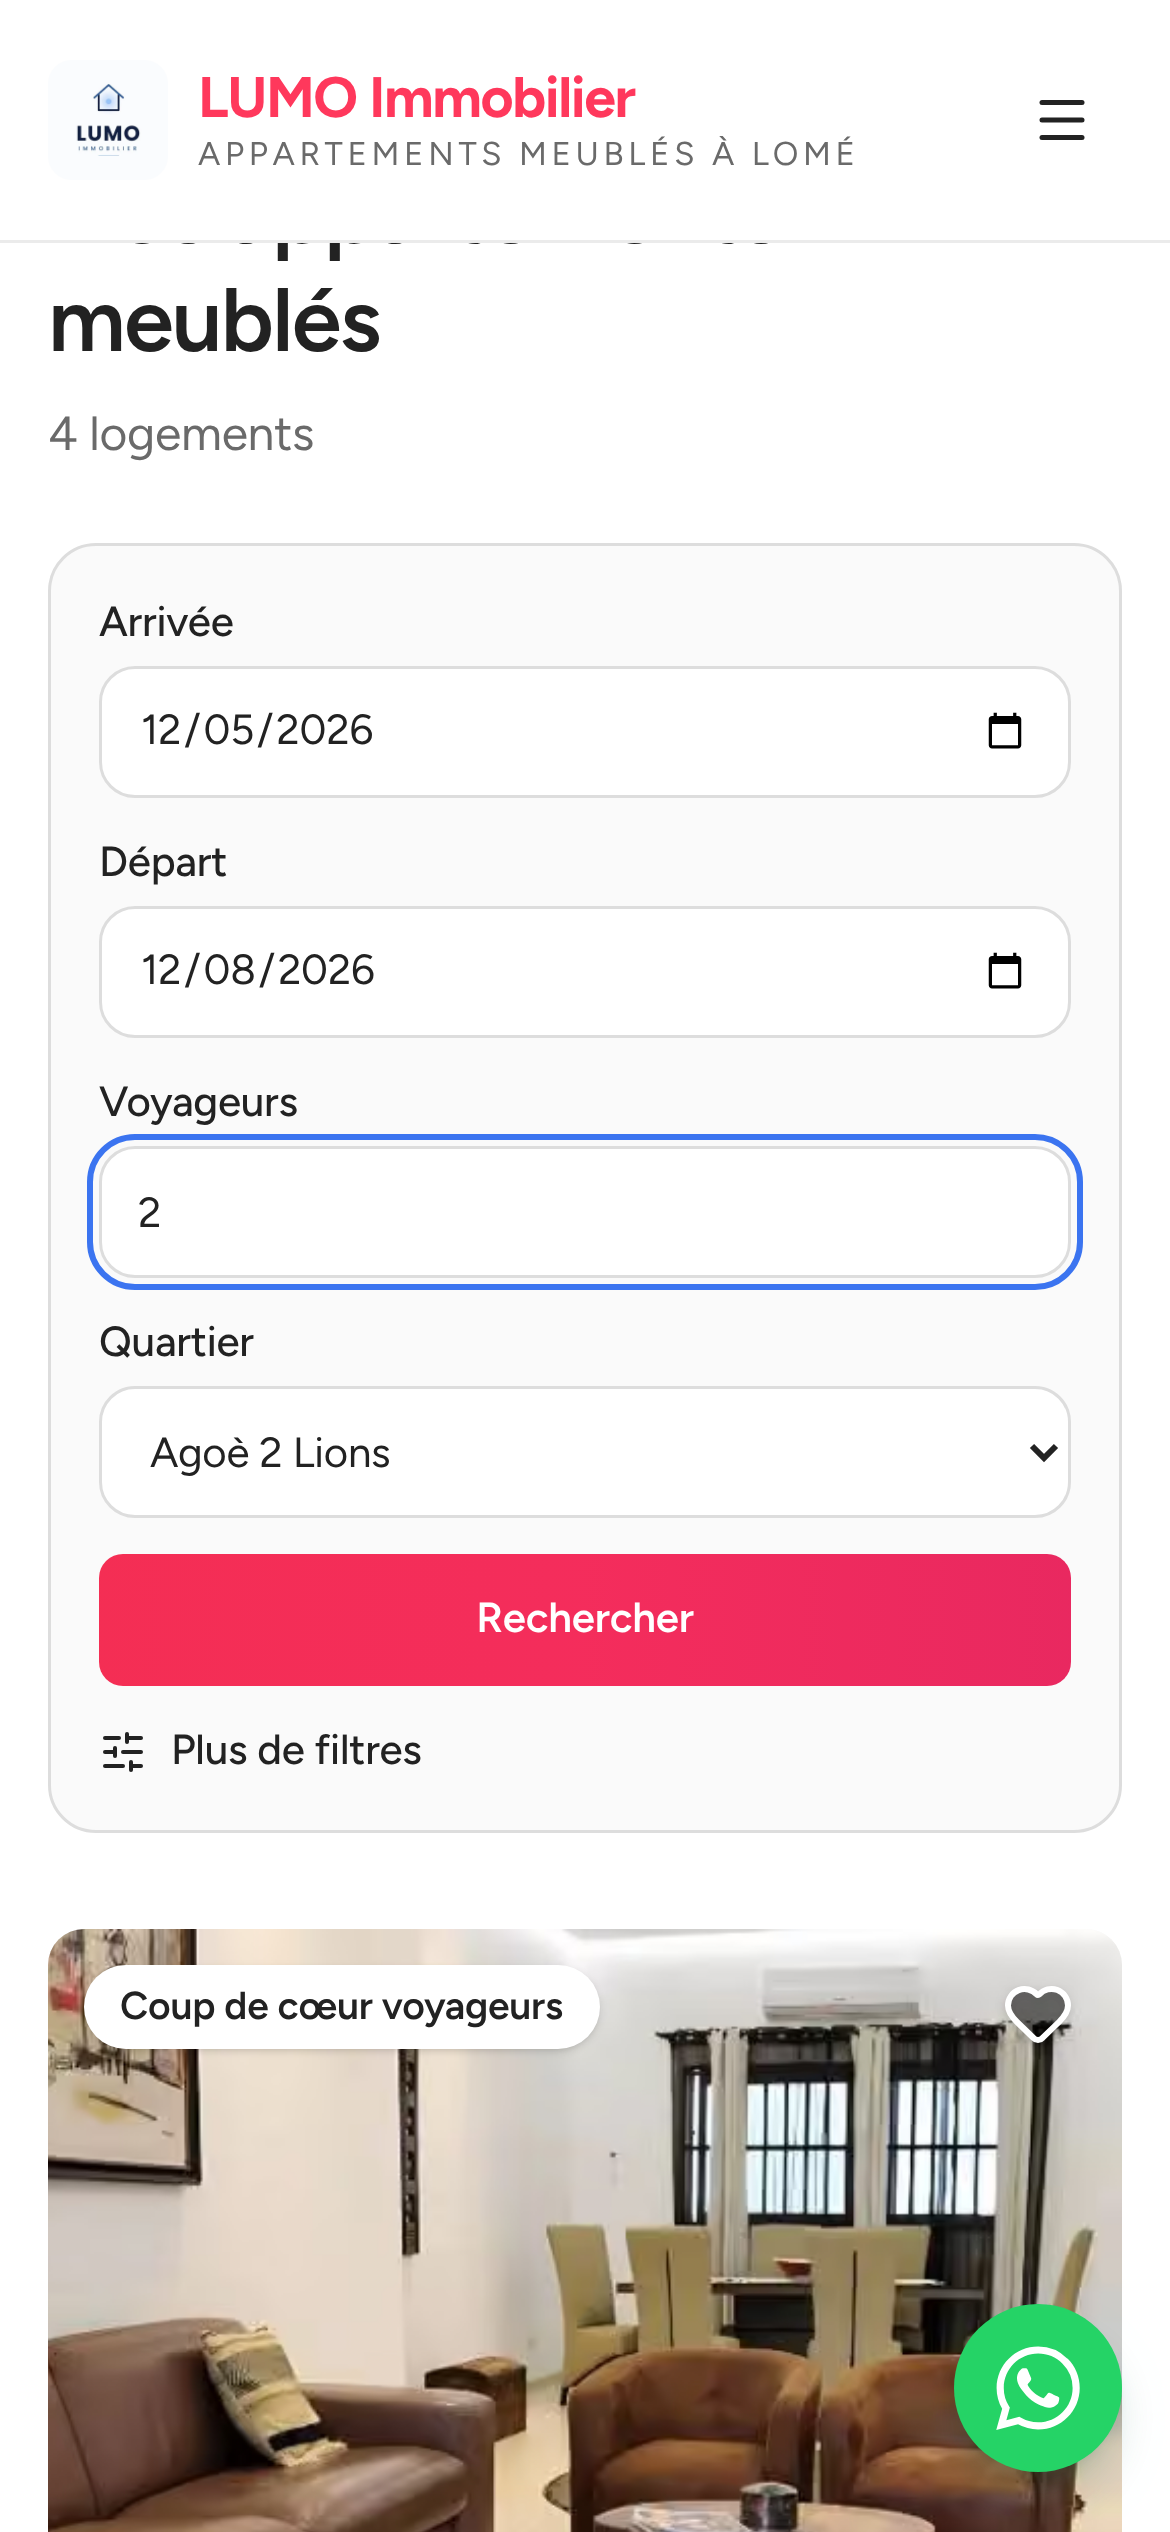
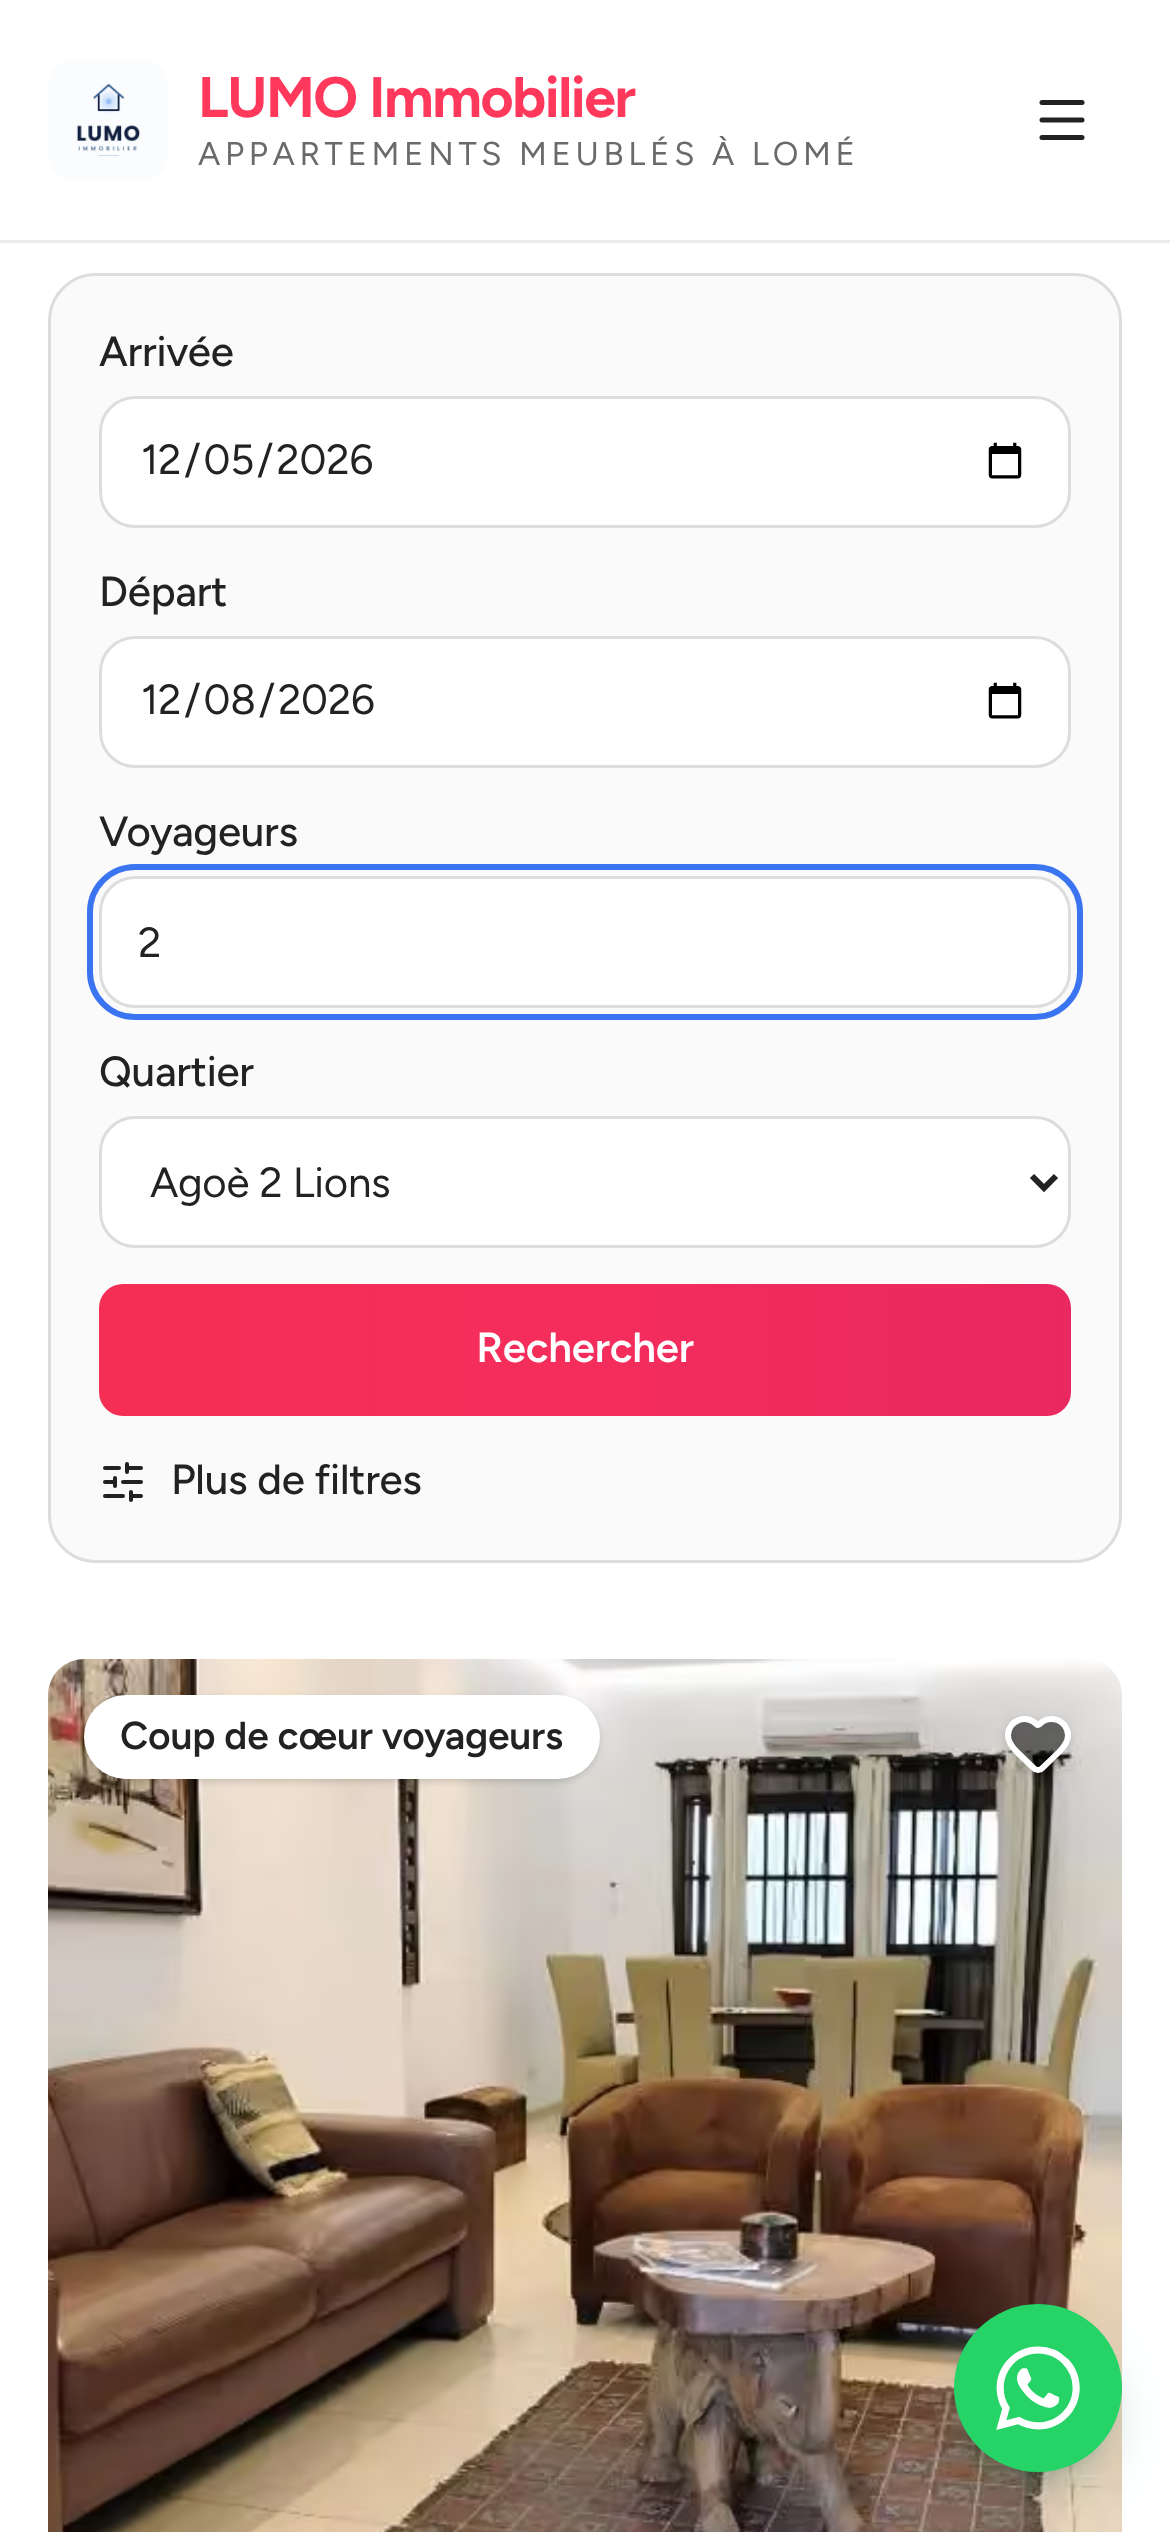
Vidéos 5 et 6 : ne plus annoncer de nombre de logements ni de quartiers
Claude-Session: https://claude.ai/code/session_017TaYsH3maYb33AsDFET8TE

diff --git a/publicites/ui/positions.js b/publicites/ui/positions.js
@@ -1,104 +1,1 @@
-window.TUTO_POS = {
- "acc_decouvrir": {
-  "x": 0.041025641025641026,
-  "y": 0.4200236966824645,
-  "w": 0.6950320512820513,
-  "h": 0.061611374407582936
- },
- "f_dates": {
-  "x": 0.08461538461538462,
-  "y": 0.26303317535545023,
-  "w": 0.8307692307692308,
-  "h": 0.052132701421800945
- },
- "f_quartier": {
-  "x": 0.08461538461538462,
-  "y": 0.54739336492891,
-  "w": 0.8307692307692308,
-  "h": 0.052132701421800945
- },
- "f_btn": {
-  "x": 0.08461538461538462,
-  "y": 0.6137440758293838,
-  "w": 0.8307692307692308,
-  "h": 0.052132701421800945
- },
- "r_carte": {
-  "x": 0.041025641025641026,
-  "y": 0.48104265402843605,
-  "w": 0.9179487179487179,
-  "h": 0.5575755331753555
- },
- "r_coeur": {
-  "x": 0.8461538461538461,
-  "y": 0.495260663507109,
-  "w": 0.08205128205128205,
-  "h": 0.037914691943127965
- },
- "fi_visite": {
-  "x": 0.041025641025641026,
-  "y": 0.39988151658767773,
-  "w": 0.30504807692307695,
-  "h": 0.03317535545023697
- },
- "fi_photo": {
-  "x": 0,
-  "y": 0,
-  "w": 1,
-  "h": 0.48518957345971564
- },
- "fi_barre": {
-  "x": 0,
-  "y": 0.8486374407582938,
-  "w": 1,
-  "h": 0.15136255924170616
- },
- "eq_btn": {
-  "x": 0.06153846153846154,
-  "y": 0.5622037914691943,
-  "w": 0.8769230769230769,
-  "h": 0.061611374407582936
- },
- "as_regles": {
-  "x": 0.06153846153846154,
-  "y": 0.1712085308056872,
-  "w": 0.8769230769230769,
-  "h": 0.12796208530805686
- },
- "d_cal": {
-  "x": 0.12564102564102564,
-  "y": 0.2103080568720379,
-  "w": 0.7487179487179487,
-  "h": 0.2896919431279621
- },
- "t_total": {
-  "x": 0.12564102564102564,
-  "y": 0.42509626777251186,
-  "w": 0.7487179487179487,
-  "h": 0.10781990521327015
- },
- "t_wa": {
-  "x": 0.12564102564102564,
-  "y": 0.5518735189573459,
-  "w": 0.7487179487179487,
-  "h": 0.05687203791469194
- },
- "t_demande": {
-  "x": 0.12564102564102564,
-  "y": 0.6277029028436019,
-  "w": 0.7487179487179487,
-  "h": 0.054502369668246446
- },
- "t_barre": {
-  "x": 0,
-  "y": 0.8486374407582938,
-  "w": 1,
-  "h": 0.15136255924170616
- },
- "fo_btn": {
-  "x": 0.16923076923076924,
-  "y": 0.47367446682464454,
-  "w": 0.6615384615384615,
-  "h": 0.052132701421800945
- }
-};
+window.TUTO_POS = {"acc_decouvrir":{"x":0.041025641025641026,"y":0.4200236966824645,"w":0.6950320512820513,"h":0.061611374407582936},"f_dates":{"x":0.08461538461538462,"y":0.15639810426540285,"w":0.8307692307692308,"h":0.052132701421800945},"f_quartier":{"x":0.08461538461538462,"y":0.44075829383886256,"w":0.8307692307692308,"h":0.052132701421800945},"f_btn":{"x":0.08461538461538462,"y":0.5071090047393365,"w":0.8307692307692308,"h":0.052132701421800945},"r_carte":{"x":0.041025641025641026,"y":0.48104265402843605,"w":0.9179487179487179,"h":0.5575755331753555},"r_coeur":{"x":0.8461538461538461,"y":0.495260663507109,"w":0.08205128205128205,"h":0.037914691943127965},"fi_visite":{"x":0.041025641025641026,"y":0.39988151658767773,"w":0.30504807692307695,"h":0.03317535545023697},"fi_photo":{"x":0,"y":0,"w":1,"h":0.48518957345971564},"fi_barre":{"x":0,"y":0.8486374407582938,"w":1,"h":0.15136255924170616},"eq_btn":{"x":0.06153846153846154,"y":0.5622037914691943,"w":0.8769230769230769,"h":0.061611374407582936},"as_regles":{"x":0.06153846153846154,"y":0.1712085308056872,"w":0.8769230769230769,"h":0.12796208530805686},"d_cal":{"x":0.12564102564102564,"y":0.2103080568720379,"w":0.7487179487179487,"h":0.2896919431279621},"t_total":{"x":0.12564102564102564,"y":0.42509626777251186,"w":0.7487179487179487,"h":0.10781990521327015},"t_wa":{"x":0.12564102564102564,"y":0.5518735189573459,"w":0.7487179487179487,"h":0.05687203791469194},"t_demande":{"x":0.12564102564102564,"y":0.6277029028436019,"w":0.7487179487179487,"h":0.054502369668246446},"t_barre":{"x":0,"y":0.8486374407582938,"w":1,"h":0.15136255924170616},"fo_btn":{"x":0.16923076923076924,"y":0.47367446682464454,"w":0.6615384615384615,"h":0.052132701421800945}};

diff --git a/publicites/concepts/c5.js b/publicites/concepts/c5.js
@@ -46,7 +46,7 @@
     ],
     taps: [{ at: 8.3, k: "eq_btn" }, { at: 26.8, x: 0.5, y: 0.5 }, { at: 34.4, k: "t_wa" }],
     marks: [
-      { k: "f_quartier", a: 14.6, b: 16.8, label: "3 quartiers" },
+      { k: "f_quartier", a: 14.6, b: 16.8, label: "Filtrez par quartier" },
       { k: { x: 0.04, y: 0.135, w: 0.92, h: 0.41 }, a: 19.9, b: 22.8, label: "Plus vous restez, moins vous payez" },
       { k: "t_total", a: 32.0, b: 33.5, label: "Prix total" },
       { k: "t_wa", a: 33.5, b: 35.2, label: "Réserver sur WhatsApp" },
@@ -60,7 +60,7 @@
   T.steps([
     { a: 4.6, b: 10.7, kick: K, n: "01", lab: "Des logements meublés et équipés", sub: "Prêts à vivre dès votre arrivée.",
       extras: [{ html: "Wi-Fi", at: 3.0, dy: 0 }, { html: "Climatisation", at: 3.5, dy: cs }, { html: "Cuisine équipée", at: 4.0, dy: cs * 2 }] },
-    { a: 10.7, b: 17.1, kick: K, n: "02", lab: "Trois quartiers de Lomé", sub: "Choisissez celui qui vous convient.", extraTop: nine ? 620 : 450,
+    { a: 10.7, b: 17.1, kick: K, n: "02", lab: "Plusieurs quartiers de Lomé", sub: "Et de nouveaux logements régulièrement.", extraTop: nine ? 620 : 450,
       extras: [
         { cls: "pcard", html: card("a-salon-baie.jpg", "Agoè 2 Lions", "<b>50 000 F</b> / nuit"), at: 1.0, dy: 0, pop: true },
         { cls: "pcard", html: card("b-salon1.jpg", "Hedzranawoé", "dès <b>40 000 F</b> / nuit"), at: 1.4, dy: pc, pop: true, hot: [3.7, 6.0] },
@@ -79,7 +79,7 @@
 
   // ---------- Appel à l'action ----------
   T.cta(35.7, R.dur, {
-    recap: ["Meublé et équipé", "3 quartiers", "Nuit · semaine · mois", "Photos réelles", "WhatsApp"],
+    recap: ["Meublé et équipé", "Plusieurs quartiers", "Nuit · semaine · mois", "Photos réelles", "WhatsApp"],
     title: "Votre appartement meublé à Lomé.",
     sub: "Découvrez nos logements et réservez en quelques clics.",
     btn: "DÉCOUVRIR LES APPARTEMENTS",

diff --git a/publicites/concepts/c6.js b/publicites/concepts/c6.js
@@ -2,7 +2,7 @@
 (() => {
   const { E, p, el, split, reveal, scene, clamp } = R;
   R.dur = 45.4;
-  const T = TUTO(), { nine, Y } = T;
+  const T = TUTO(), { nine, Y } = T, POS = window.TUTO_POS;
   const css = document.createElement("style");
   css.textContent = `
     .h6k { position:absolute; left:50%; transform:translateX(-50%); background:#FF385C; color:#fff; border-radius:999px; padding:${nine ? "16px 30px" : "13px 24px"};
@@ -49,8 +49,8 @@
     ],
     marks: [
       { k: "acc_decouvrir", a: 4.6, b: 7.3, label: "Découvrir les appartements" },
-      { k: { x: 0.0846, y: 0.263, w: 0.8308, h: 0.144 }, a: 8.2, b: 9.3, label: "Dates" },
-      { k: { x: 0.0846, y: 0.45, w: 0.8308, h: 0.052 }, a: 9.3, b: 10.1, label: "Voyageurs" },
+      { k: { ...POS.f_dates, h: POS.f_dates.h + 0.094 }, a: 8.2, b: 9.3, label: "Dates" },
+      { k: { ...POS.f_quartier, y: POS.f_quartier.y - 0.097 }, a: 9.3, b: 10.1, label: "Voyageurs" },
       { k: "f_quartier", a: 10.1, b: 11.1, label: "Quartier" },
       { k: "f_btn", a: 11.1, b: 12.6, label: "Rechercher" },
       { k: "r_carte", a: 13.4, b: 15.2, label: "Photos, prix, équipements" },

diff --git a/publicites/README.md b/publicites/README.md
@@ -63,7 +63,7 @@ H.264 High, 30 i/s, AAC 192 kb/s 48 kHz, `faststart` : prêts pour Meta Ads (Ree
 - **Scénario**
   - 0–4,6 s, accroche : logo, « Ce que LUMO vous propose. », pastilles 01 à 05.
   - 01 (4,6–10,7 s) : logements meublés et équipés ; liste réelle des équipements ; pastilles Wi-Fi, climatisation, cuisine équipée.
-  - 02 (10,7–17,1 s) : 3 quartiers avec photo et prix réels (Agoè 2 Lions 50 000 F, Hedzranawoé dès 40 000 F, Totsi 75 000 F) ; filtre par quartier encadré.
+  - 02 (10,7–17,1 s) : plusieurs quartiers (aucun nombre de logements ni de quartiers n'est annoncé, le catalogue grandit) ; exemples avec photo et prix réels (Agoè 2 Lions 50 000 F, Hedzranawoé dès 40 000 F, Totsi 75 000 F) ; filtre par quartier encadré.
   - 03 (17,1–23,3 s) : de 2 nuits à plusieurs mois ; vrais tarifs de Totsi encadrés ; bulle « 1 mois · 800 000 F, soit 26 667 F / nuit ».
   - 04 (23,3–29,5 s) : vraies photos pièce par pièce ; visite photo puis zoom.
   - 05 (29,5–35,8 s) : réservation simple ; prix total puis bouton WhatsApp encadrés.
